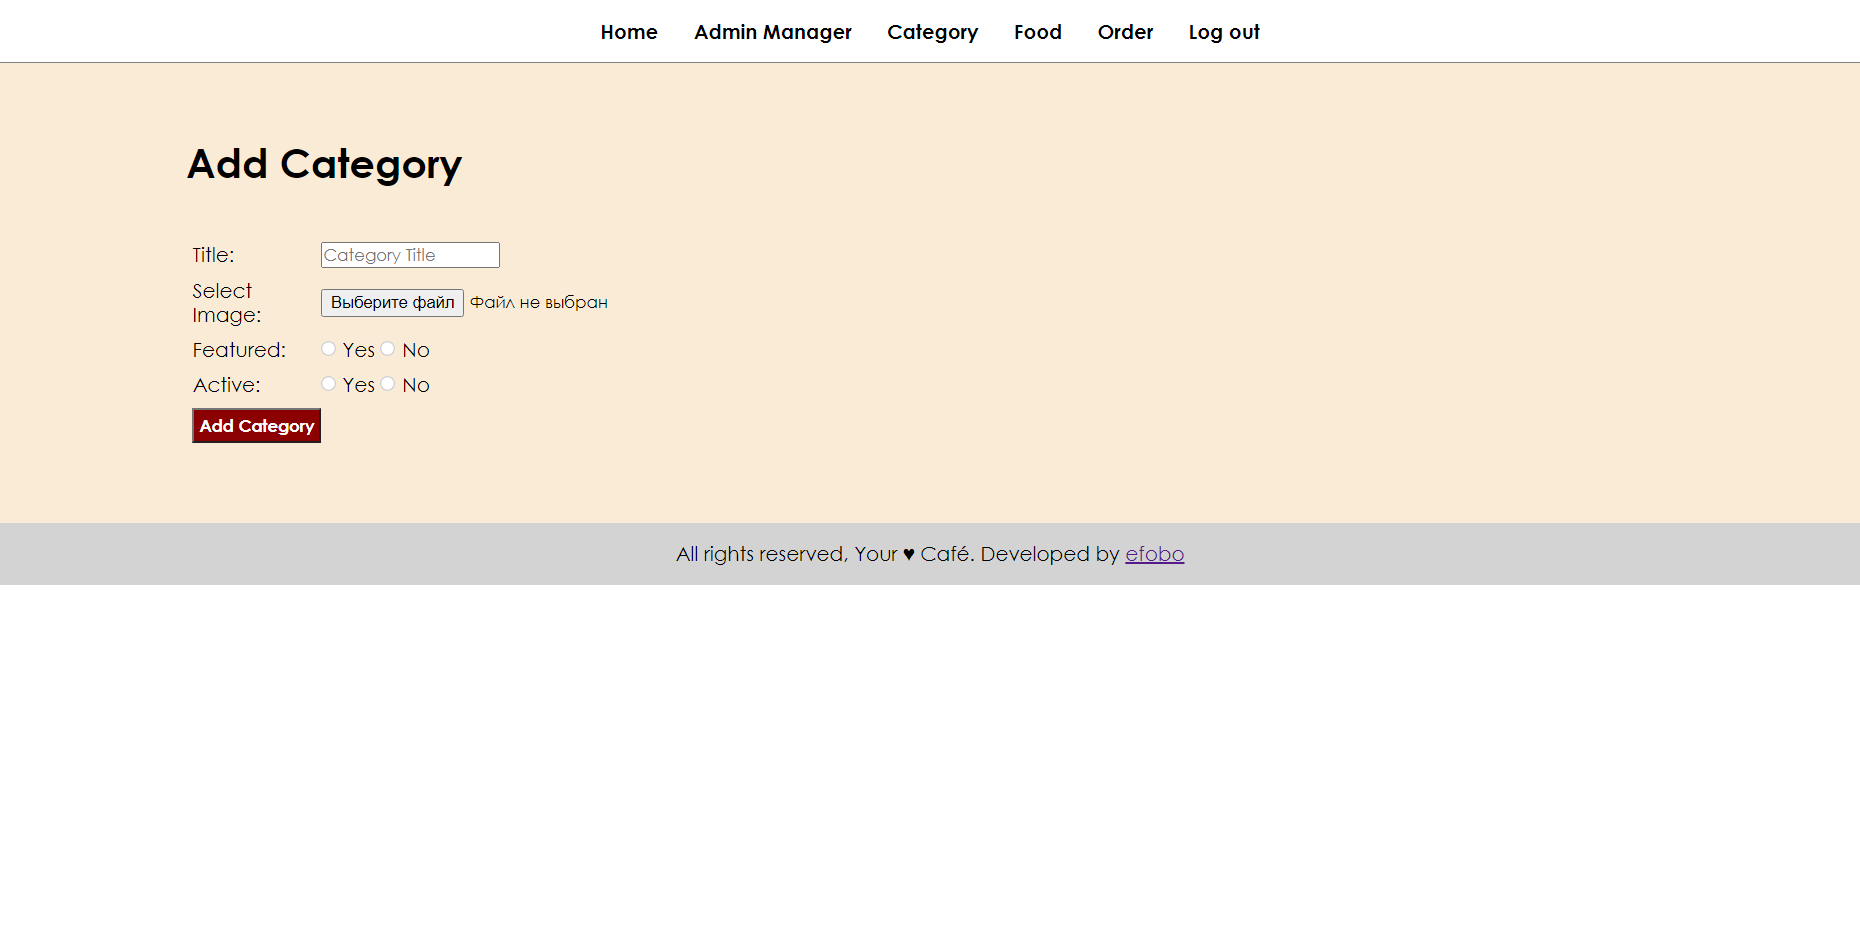
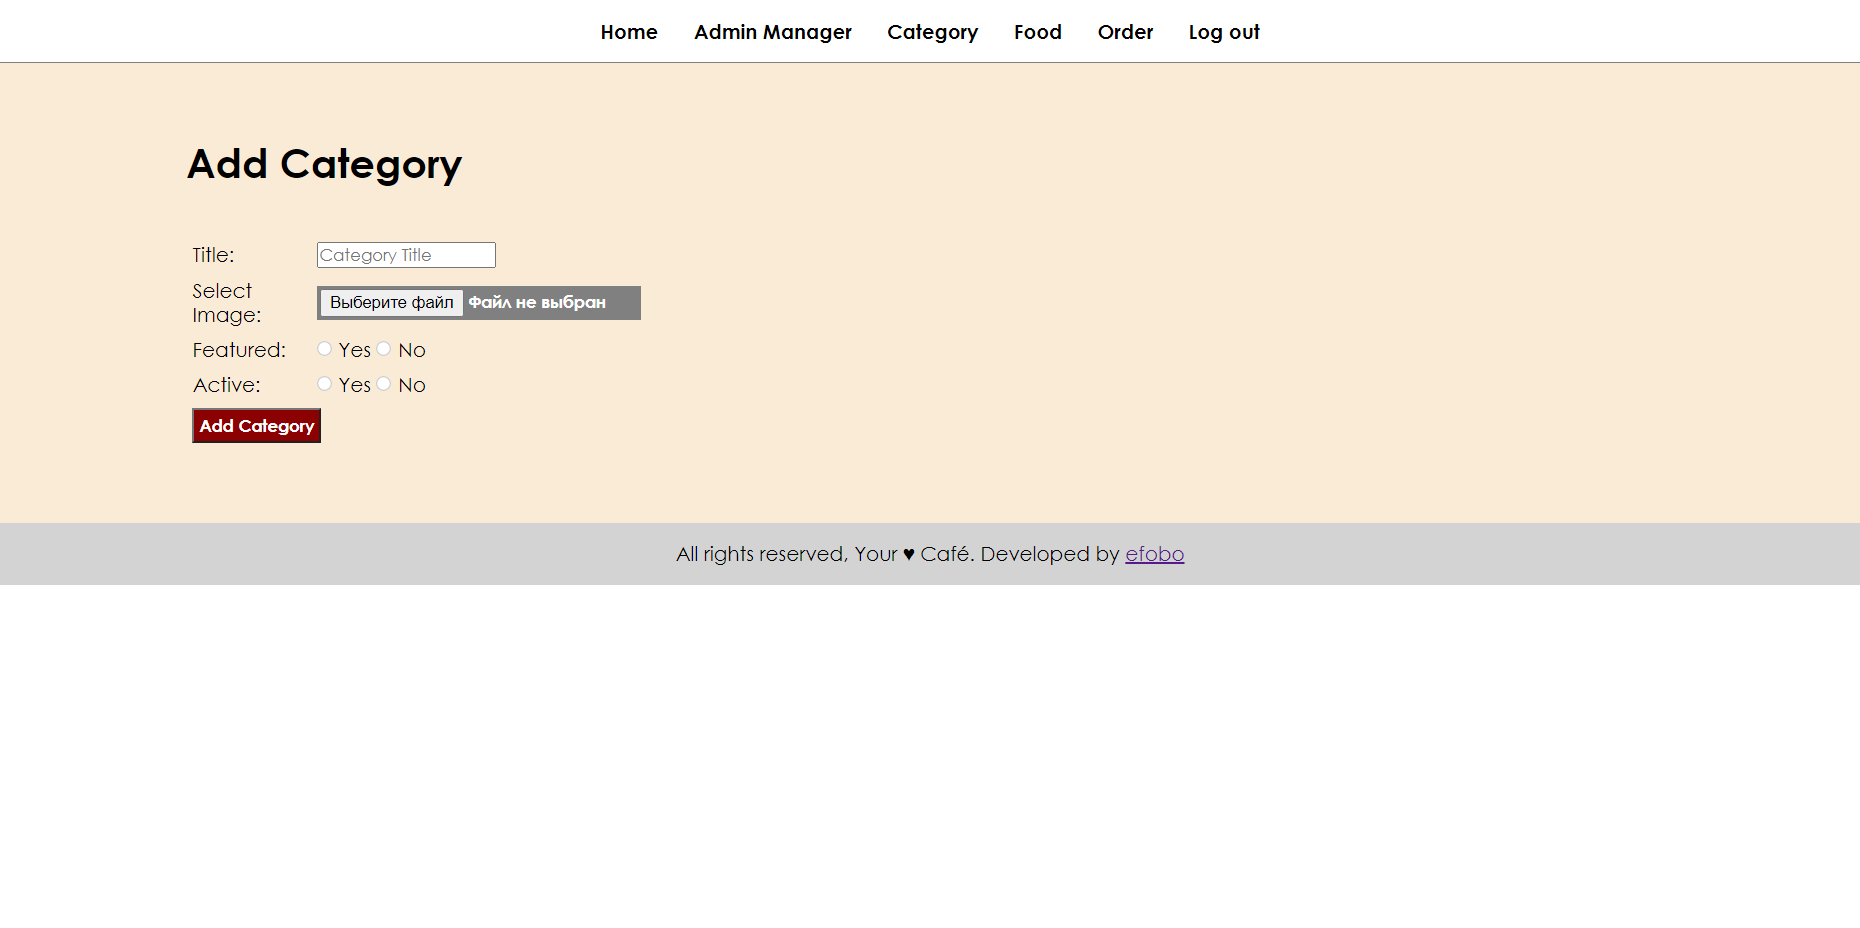
Bugs Fixed

Changed region(s): [[0.1559, 0.25, 0.343, 0.4375]]

diff --git a/admin/manage-food.php b/admin/manage-food.php
@@ -88,7 +88,7 @@
 
                             <tr>
                                 <td><?php echo $sn++; ?></td>
-                                <td><?php echo $title; ?></td>
+                                <td width='30%'><?php echo $title; ?></td>
                                 <td><?php echo $price; ?></td>
                                 <td>
                                     <?php

diff --git a/admin/update-food.php b/admin/update-food.php
@@ -81,7 +81,7 @@
                 <tr>
                     <td>Select New Image: </td>
                     <td>
-                        <input type="file" name="image" class="btn-secondary">
+                        <input type="file" name="image" class="btn-secondary" >
                     </td>
                 </tr>
 

diff --git a/admin/manage-category.php b/admin/manage-category.php
@@ -93,7 +93,7 @@
 
                         <tr>
                             <td><?php echo $sn++; ?>. </td>
-                            <td><?php echo $title; ?></td>
+                            <td width='30%'><?php echo $title; ?></td>
 
                             <td>
                                 <?php

diff --git a/admin/add-category.php b/admin/add-category.php
@@ -45,7 +45,7 @@
                 <tr>
                     <td>Select Image: </td>
                     <td>
-                        <input type="file" name="image">
+                        <input type="file" name="image" class="btn-secondary">
                     </td>
                 </tr>
 

diff --git a/admin/add-food.php b/admin/add-food.php
@@ -43,7 +43,7 @@
                 <tr>
                     <td>Select Image: </td>
                     <td>
-                        <input type="file" name="image">
+                        <input type="file" name="image" class="btn-secondary">
                     </td>
                 </tr>
 
